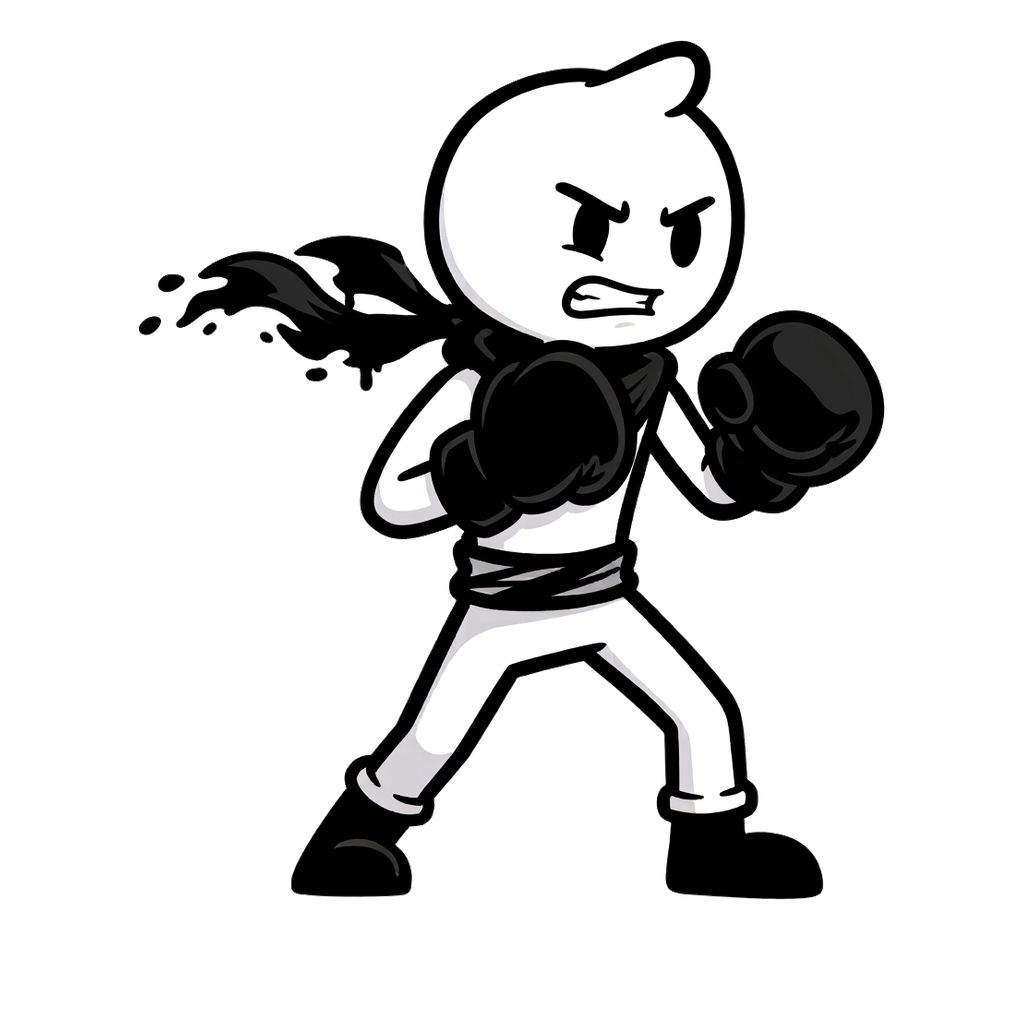
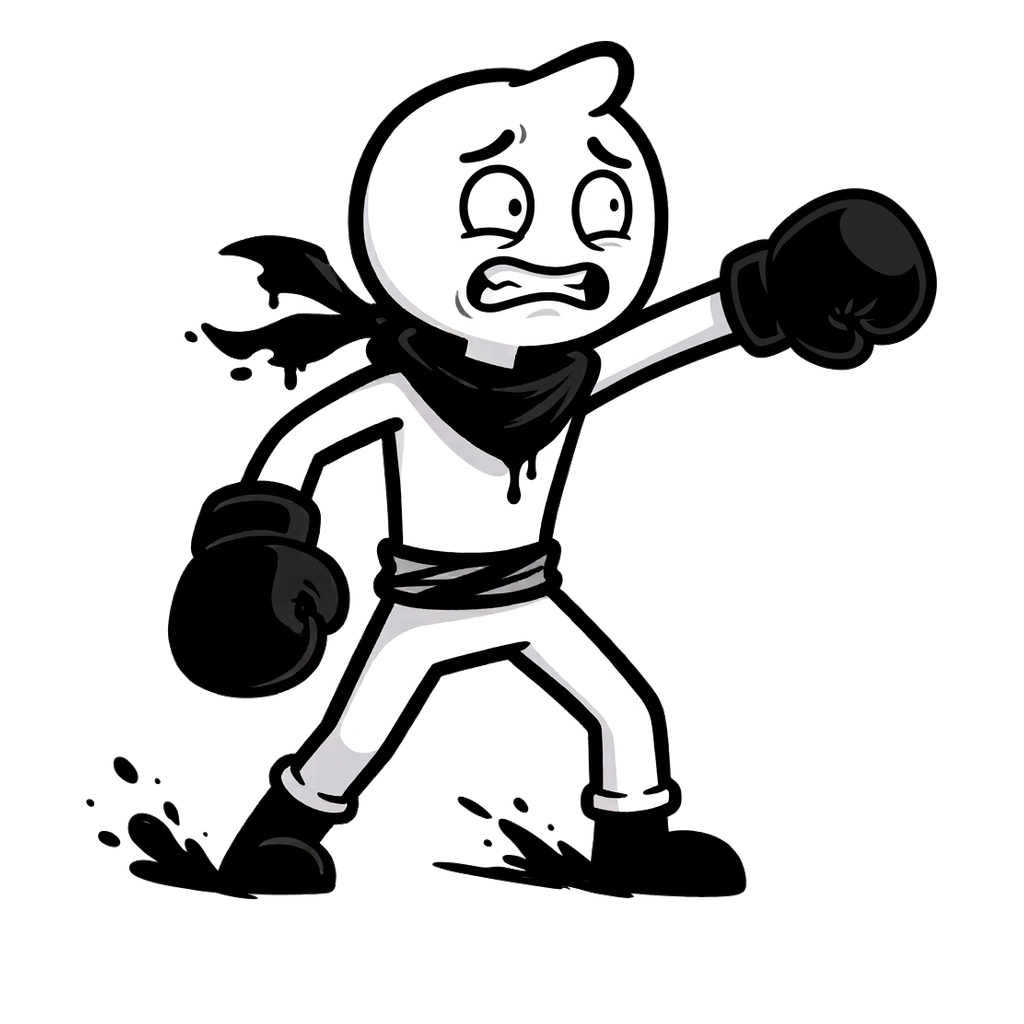
feat(anim): heavy hurt in-between 001 to 002 (4 to 5, beats kept)

Changed region(s): [[0.0938, 0.0312, 0.9375, 0.9062]]

diff --git a/lib/game/ink_fight_battle_game.dart b/lib/game/ink_fight_battle_game.dart
@@ -44,12 +44,14 @@ const List<int> _kHeavyKickStepsMs = <int>[60, 60, 60, 60, 90, 100, 120, 120];
 /// light stun does; it does not loop, so 004 holds if the stun runs longer.
 const List<int> _kHurtStepsMs = <int>[40, 30, 45, 35, 70];
 
-/// §1 hurt, heavy (a heavy kick landed): the four delivered frames, 420 ms =
-/// `heavyAttack.hitstunMs`. 000 is the impact peak (head snapped back, scarf
-/// flaring), so it gets 90 ms and reads as a snap; 001 is the recoil and 002
-/// the stagger, 120 ms each; 003 is back in a near-neutral stance and holds
-/// for the last 120 ms of the stun.
-const List<int> _kHurtHeavyStepsMs = <int>[90, 90, 120, 120];
+/// §1 hurt, heavy (a heavy kick landed): 420 ms = `heavyAttack.hitstunMs`.
+/// The keyframes keep their beats. 000 is the impact peak (head snapped back,
+/// scarf flaring), a 90 ms snap; 001, the maximum recoil, starts at 90 ms; 003,
+/// the skid, at 180 ms; 004, back in a near-neutral stance, at 300 ms, holding
+/// for the last 120 ms of the stun. The in-between 002 (out of the recoil into
+/// the skid) takes half of the recoil's old 90 ms. Not looping: 004 holds if
+/// the stun runs longer.
+const List<int> _kHurtHeavyStepsMs = <int>[90, 45, 45, 120, 120];
 
 /// §1 jump: takeoff 100, rise 150, apex 150, fall 160, landing 140 = 700 ms =
 /// `rules.jumpMs`, so the landing frame meets the ground.

diff --git a/test/game_feel_test.dart b/test/game_feel_test.dart
@@ -255,10 +255,19 @@ void main() {
         match.rules.heavyAttack.hitstunMs,
       );
 
-      // Four delivered frames, paced to the heavy hitstun, not the light one.
-      expect(rival.animation!.frames, hasLength(4));
+      // Five delivered frames, paced to the heavy hitstun, not the light one.
+      expect(rival.animation!.frames, hasLength(5));
       expect(totalMsOf(rival), 420);
       expect(rival.animation!.loop, isFalse);
+      // The in-between only splits the recoil: the skid still lands at 180 ms
+      // and the recovered stance at 300 ms, holding to the end of the stun.
+      final heavyStarts = <int>[0];
+      for (final f in rival.animation!.frames) {
+        heavyStarts.add(heavyStarts.last + (f.stepTime * 1000).round());
+      }
+      expect(heavyStarts[1], 90);
+      expect(heavyStarts[3], 180);
+      expect(heavyStarts[4], 300);
       // It starts on the impact frame, which is the first one shown.
       expect(visibleFrame(rival), 0);
     });

diff --git a/docs/product/AI_CHARACTER_PROMPT_PACK.md b/docs/product/AI_CHARACTER_PROMPT_PACK.md
@@ -139,7 +139,7 @@ flickered 44 px backwards for one frame.
 - `defeat_003`: quiet recovery motion, no violent or graphic detail.
 - `defeat_004`: final defeated result pose, suitable for a general mobile game.
 
-### Hurt heavy — 4 frames (knockback that travels) — `hurt_heavy`
+### Hurt heavy — 5 frames (knockback that travels) — `hurt_heavy`
 
 Added after playtesting feedback that a hit does not read as one: the fight had
 a single 3-frame `hurt` cycle for every hit, so a jab and a heavy kick looked
@@ -154,8 +154,9 @@ poses: the arms and the head lead, the feet catch up.
 
 - `hurt_heavy_000` — impact: head snapped back with the chin tucked, both fists blown up and out of the guard, weight already travelling backward.
 - `hurt_heavy_001` — maximum recoil: torso furthest back, front foot sliding backward, back knee bent deep under the force, scarf whipped forward past the face.
-- `hurt_heavy_002` — the skid: feet planted wide apart mid-slide, body still leaning back, both arms flailing outward to catch balance, face coming back up.
-- `hurt_heavy_003` — recovering: centred again with weight settling, arms returning toward guard. This is the frame the player sees when control comes back, so it must read as ready, not as a second stagger.
+- `hurt_heavy_002` (in-between, §5b) — coming out of the deepest recoil into the skid. The torso leans back less than in 001, both feet are planted and spread nearly as wide as in the skid, knees bent, both arms flail out at shoulder height, and the head comes back up, the face pained turning worried. No ground line, splashes or dust (the skid frame has its own).
+- `hurt_heavy_003` — the skid: feet planted wide apart mid-slide, body still leaning back, both arms flailing outward to catch balance, face coming back up.
+- `hurt_heavy_004` — recovering: centred again with weight settling, arms returning toward guard. This is the frame the player sees when control comes back, so it must read as ready, not as a second stagger.
 
 Append to the universal frame prompt (section 4) for every one of the four:
 
@@ -240,6 +241,7 @@ step / mean silhouette change, before → after):
 | light punch | 86 px / 0.28 → 52 px / 0.29 | 35 px / 0.25 → 42 px / 0.22 |
 | hurt | 56 px / 0.68 → 72 px / 0.52 ¹ | 14 px / 0.33 → 49 px / 0.26 ¹ |
 | heavy kick | 177 px / 0.44 → 216 px / 0.45 ² | 155 px / 0.36 → 155 px / 0.32 ³ |
+| hurt heavy | 219 px / 0.59 → 219 px / 0.55 | 178 px / 0.50 → 178 px / 0.46 |
 
 ¹ Here the head measure includes the gloves thrown up by the hit. The planted
 feet stay inside the old frames' spread on every frame; the rival's stay within
@@ -271,6 +273,13 @@ forward-and-back lurch in the wind-up. That is the case foot registration
 exists for, and it is the frame that landed. So is the fifth idle attempt:
 registered, its body stays put (the loop's largest head step is 12 px) and the
 slightly long scarf reads as a flick.
+
+Heavy hurt landed only its 001 → 002 in-between. The player's 000 → 001 failed
+twice. The first stood the torso upright between two leaning frames, so the body
+would wobble. The second turned the boxing gloves into open hands, which is
+off-model. The first 001 → 002 attempt was frame 001 with a new face and a
+ground line (silhouette distance 0.10). The rival's 000 → 001 passed and will
+land together with the player's, since the recipe is shared.
 
 **Haze.** A generation can leave a faint grey ground smudge under a lifted foot
 (the rival's `walk_002` did). `tool/process_character_assets.py` now clears any

diff --git a/docs/technical/GAME_FEEL.md b/docs/technical/GAME_FEEL.md
@@ -58,7 +58,9 @@ Other cycles: **block** (raise 90 ms → loop frames 1–2 at 140 ms while the
 guard is held → release 120 ms) · **hurt** (5 frames: recoil 000 at 0,
 in-between 001 at 40, stagger 002 at 70, in-between 003 at 115, recovered 004
 at 150 = [40, 30, 45, 35, 70] — the in-betweens only split the old 0/70/150
-beats — then hold the last frame until hitstun ends — 220 ms light, 420 ms heavy) ·
+beats — then hold the last frame until hitstun ends — 220 ms light, 420 ms heavy;
+**hurt_heavy** is 5 frames, [90, 45, 45, 120, 120]: impact 000 at 0, recoil 001
+at 90, in-between 002 at 135, skid 003 at 180, recovered 004 at 300) ·
 **jump** (takeoff 100, rise 150, apex 150, fall 160, landing 140 = 700 ms =
 `jumpMs`) · **walk** (see §6; 8 frames since the in-betweens) · **idle** (one
 560 ms breath — the old 4 × 140 ms — spread evenly over however many frames are
